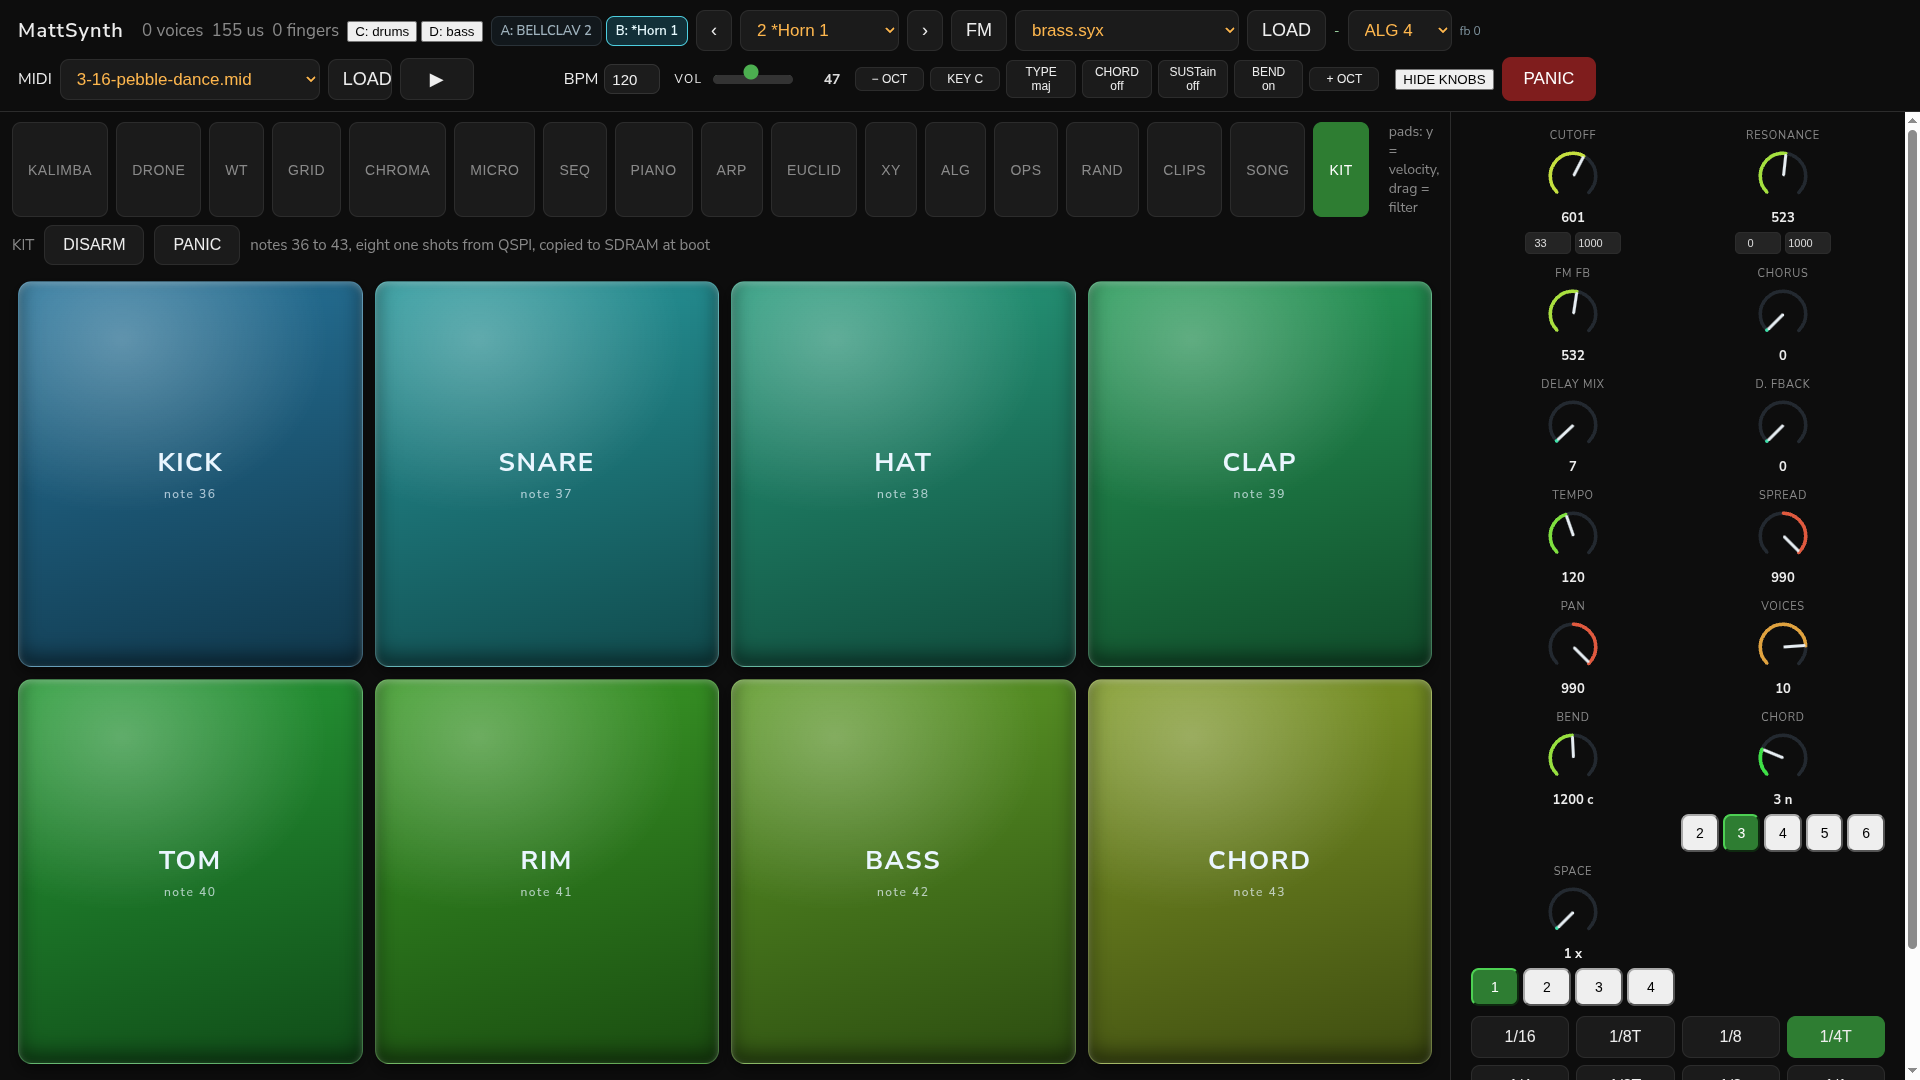
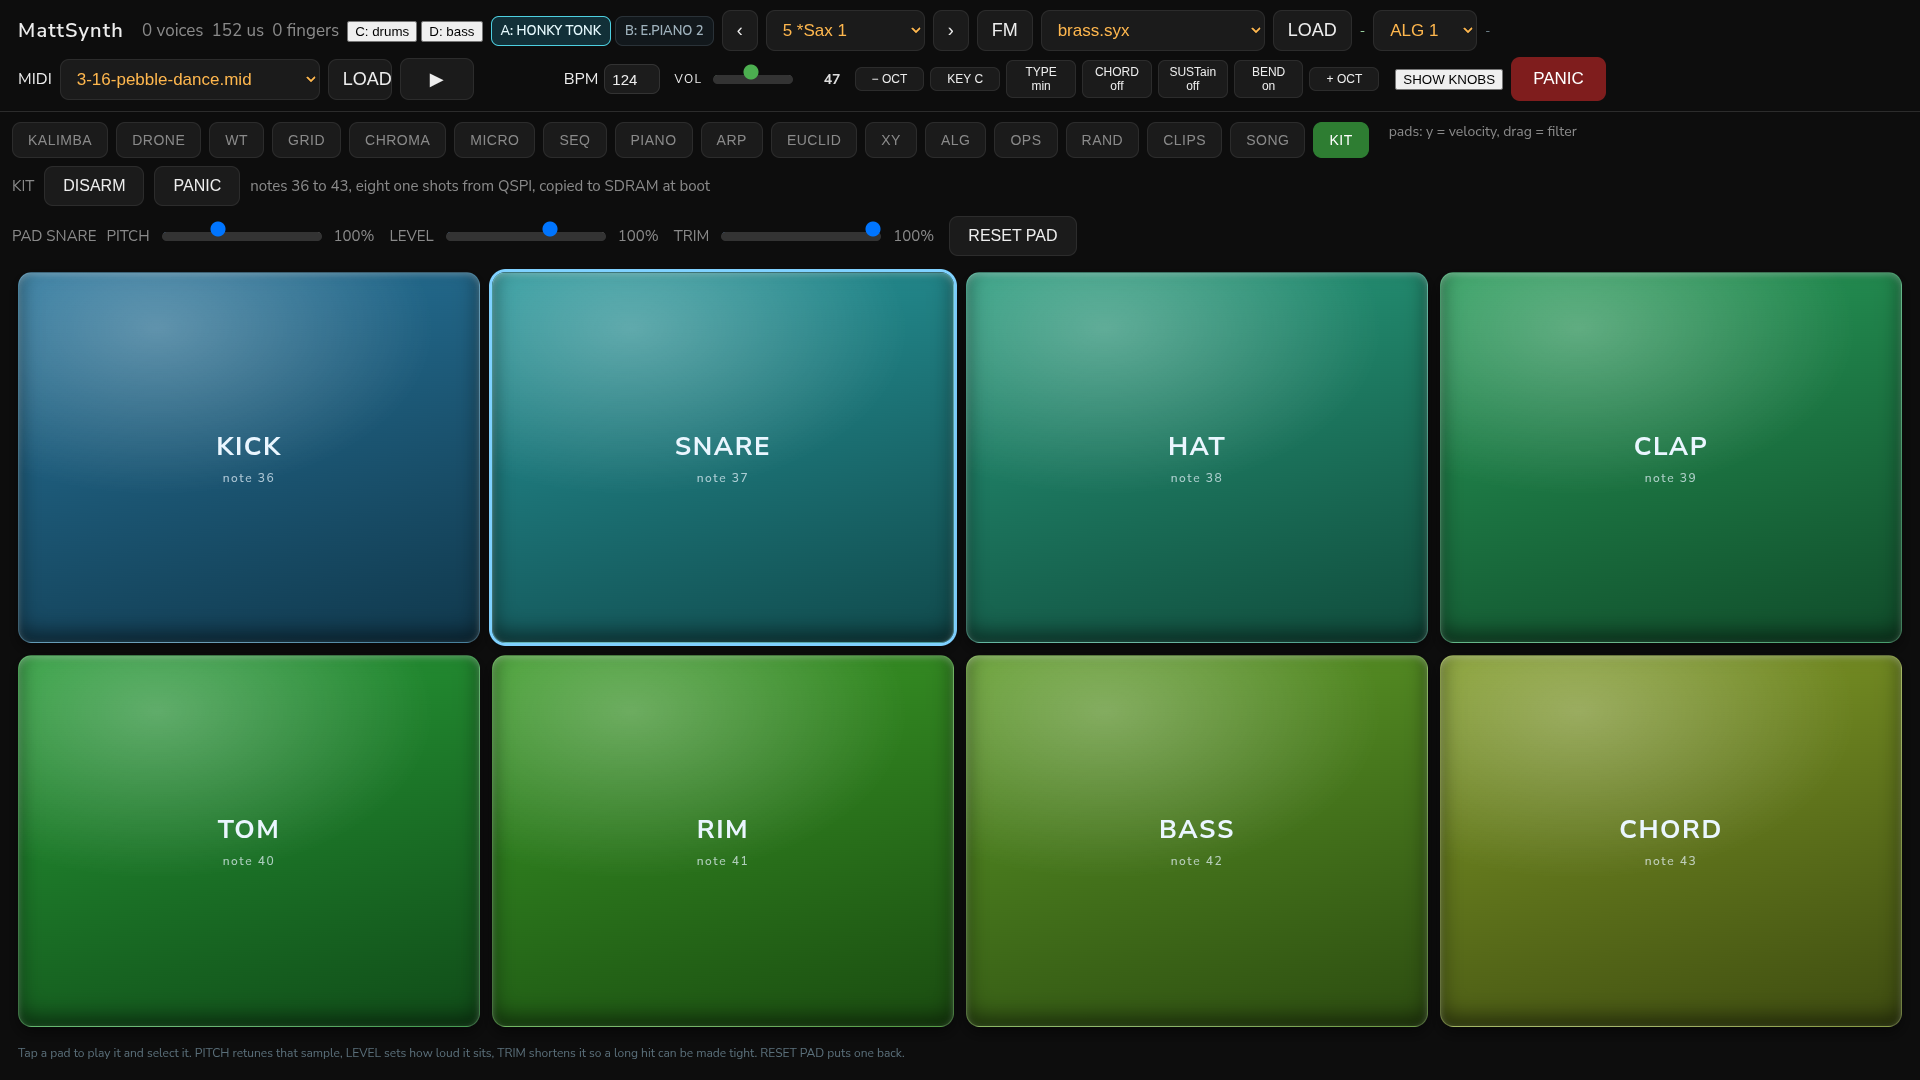
kit: shape each pad with pitch, level and trim
Y <pad> <rate> <level> <trim> in thousandths sets a pad on the Pod; the KIT tab selects a
pad by tapping it and gives it three sliders, saved with the panel. Pitch retunes the
sample, level sets how it sits in the mix and trim cuts the tail short.

diff --git a/panel/panel_ui.py b/panel/panel_ui.py
@@ -922,6 +922,12 @@ let bendRange=1200;   /* cents at full deflection, set by the BEND knob */
 let chordN=3;         /* how many notes a pad plays with CHORD on, set by the CHORD knob */
 let chordSpace=1;     /* multiplies the chord type gaps: maj 0-2-4 at 2 becomes 0-4-8 */
 /* microtonal player: EDO, layout and root */
+const kitPads = Array.from({length:8}, ()=>({ rate:1000, level:1000, trim:1000 }));
+let kitSel = 0;
+function kitSendPad(i){ const p = kitPads[i];
+  send("Y " + i + " " + p.rate + " " + p.level + " " + p.trim); }
+function kitSendAll(){ for(let i=0;i<8;i++) kitSendPad(i); }
+
 const micro = { edo:24, layout:"lum", root:0, size:"big" };
 let fxHidden = false;   /* the right column can collapse so a player gets the width */
 let part = 0;   /* which timbre the pads, roll and edit verbs act on */
@@ -4780,18 +4786,52 @@ function buildKit(){
     sub.style.cssText = "font:500 12px system-ui;opacity:.7;margin-top:6px";
     sub.textContent = "note " + (36 + i);
     b.appendChild(sub);
+    if(i === kitSel) b.style.outline = "3px solid #7fd1ff";
     const hit = (ev)=>{
       ev.preventDefault();
+      kitSel = i;
       b.style.transform = "scale(.97)";
       b.style.filter = "brightness(1.35)";
       send("N " + (36 + i) + " 118 0");
-      setTimeout(()=>{ b.style.transform = ""; b.style.filter = ""; }, 110);
+      setTimeout(()=>{ b.style.transform = ""; b.style.filter = ""; buildKit(); }, 110);
     };
     b.addEventListener("pointerdown", hit);
     grid.appendChild(b);
   });
+  const ed = document.createElement("div"); ed.className = "seqbar"; ed.style.flexWrap = "wrap";
+  const p0 = document.createElement("span"); p0.className = "lab";
+  p0.textContent = "PAD " + nm[kitSel];
+  ed.appendChild(p0);
+  const mk = (label, key, lo, hi)=>{
+    const t = document.createElement("span"); t.className = "lab"; t.textContent = label;
+    const r = document.createElement("input");
+    r.type = "range"; r.min = lo; r.max = hi; r.value = kitPads[kitSel][key];
+    r.style.width = "160px";
+    const v = document.createElement("span"); v.className = "lab";
+    v.style.minWidth = "46px"; v.textContent = Math.round(kitPads[kitSel][key] / 10) + "%";
+    r.oninput = ()=>{
+      kitPads[kitSel][key] = +r.value;
+      v.textContent = Math.round(r.value / 10) + "%";
+      kitSendPad(kitSel);
+    };
+    r.onchange = ()=> saveState();
+    ed.appendChild(t); ed.appendChild(r); ed.appendChild(v);
+  };
+  mk("PITCH", "rate", 500, 2000);
+  mk("LEVEL", "level", 0, 1500);
+  mk("TRIM", "trim", 100, 1000);
+  const rs = document.createElement("button"); rs.textContent = "RESET PAD";
+  rs.onclick = ()=>{ kitPads[kitSel] = { rate:1000, level:1000, trim:1000 }; kitSendPad(kitSel); buildKit(); saveState(); };
+  ed.appendChild(rs);
+  const h2 = document.createElement("div");
+  h2.style.cssText = "padding:2px 6px 8px;color:#5a6f7a;font:12px system-ui;line-height:1.45;";
+  h2.textContent = "Tap a pad to play it and select it. PITCH retunes that sample, LEVEL sets how loud it sits, " +
+                   "TRIM shortens it so a long hit can be made tight. RESET PAD puts one back.";
   wrap.appendChild(grid);
+  wrap.insertBefore(ed, grid);   /* the grid has to be in the page before this */
+  wrap.appendChild(h2);
   v.appendChild(wrap);
+  kitSendAll();
 }
 
 
@@ -5392,7 +5432,8 @@ function snapshot(){
   FX_IDS.forEach(i=>{ const el = document.getElementById("p"+i); if(el) fx[i] = +el.value; });
   const num = (id)=>{ const el = document.getElementById(id); return el ? +el.value : 0; };
   return {
-    v:1, view, keySel, typeSel, oct, chord, sust, bpm, divSel, part, patch: patchIdx, bend: bendMode, bendRange: bendRange, vol: +volEl.value, bank: document.getElementById("banksel").value, eng: engWT, wtv: WT2, wtp: wtUser, wtf: wtFile, wtpart: wtPart, slot: slotName.slice(), midi: midi.name, partSplit: midi.partSplit, chordN: chordN, chordSpace: chordSpace, fxHidden: fxHidden, seq: { pats: sq.pats, song: sq.song, cur: sq.cur, songOn: sq.songOn },
+    v:1, view, keySel, typeSel, oct, chord, sust, bpm, divSel, part, patch: patchIdx, bend: bendMode, bendRange: bendRange, vol: +volEl.value, bank: document.getElementById("banksel").value, eng: engWT, wtv: WT2, wtp: wtUser, wtf: wtFile, wtpart: wtPart, slot: slotName.slice(), midi: midi.name, partSplit: midi.partSplit, chordN: chordN, chordSpace: chordSpace, fxHidden: fxHidden, kitPads: kitPads,
+    seq: { pats: sq.pats, song: sq.song, cur: sq.cur, songOn: sq.songOn },
     micro: {edo: micro.edo, layout: micro.layout, root: micro.root, size: micro.size, splitOn: micro.splitOn, split: micro.split, dragOn: micro.dragOn, splitMode: micro.splitMode, bassOfs: micro.bassOfs, bassSpan: micro.bassSpan},
     gmode: transport.global,
     range: {lo0:num("lo0"), hi0:num("hi0"), lo1:num("lo1"), hi1:num("hi1")},
@@ -5424,6 +5465,9 @@ function applyState(s){
   if(typeof s.bank === "string" && s.bank) savedBank = s.bank;
   if(s.midi) setTimeout(()=>{ midiLoadFile(s.midi).catch(()=>{}); }, 900);
   /* the patterns and the chain come back with everything else */
+  if(Array.isArray(s.kitPads) && s.kitPads.length === 8){
+    for(let i = 0; i < 8; i++) kitPads[i] = Object.assign({ rate:1000, level:1000, trim:1000 }, s.kitPads[i] || {});
+  }
   if(s.seq && Array.isArray(s.seq.pats) && s.seq.pats.length){
     sq.pats = s.seq.pats;
     sq.song = Array.isArray(s.seq.song) ? s.seq.song : [];

diff --git a/firmware/daisy-pod/KitEngine.h b/firmware/daisy-pod/KitEngine.h
@@ -60,8 +60,10 @@ class KitEngine
         v_[pick].on   = true;
         v_[pick].slot = s;
         v_[pick].pos  = 0.0f;
-        v_[pick].amp  = (vel / 127.0f) * 0.9f;
+        v_[pick].amp  = (vel / 127.0f) * 0.9f * level_[s];
         v_[pick].rate = rate_[s];   /* was left uninitialised: garbage rate meant a click */
+        v_[pick].end  = (uint32_t)(len_[s] * trim_[s]);
+        if(v_[pick].end < 64) v_[pick].end = len_[s];
     }
 
     int Active() const
@@ -85,16 +87,17 @@ class KitEngine
             if(!v.on) continue;
             const int16_t *src = &g_kit_buf[off_[v.slot]];
             const uint32_t len = len_[v.slot];
+            const uint32_t end = v.end ? v.end : len;
             for(size_t i = 0; i < n; i++)
             {
                 const uint32_t p = (uint32_t)v.pos;
-                if(p + 1 >= len) { v.on = false; break; }
+                if(p + 1 >= len || p >= end) { v.on = false; break; }
                 const float fr = v.pos - (float)p;
                 const float a = src[p] * (1.0f - fr) + src[p + 1] * fr;
                 /* a two millisecond fade keeps the one shots from clicking on */
                 float g = 1.0f;
                 if(v.pos < 96.0f)            g = v.pos / 96.0f;
-                else if(len - v.pos < 96.0f) g = (len - v.pos) / 96.0f;
+                else if(end - v.pos < 96.0f) g = (end - v.pos) / 96.0f;
                 const float s = (a / 32768.0f) * v.amp * g;
                 l[i] += s;
                 r[i] += s;
@@ -103,16 +106,21 @@ class KitEngine
         }
     }
 
-    void SetRate(int note, float rate)
+    /* Y <pad> <rate> <level> <trim> in thousandths, so nothing float crosses the wire */
+    void SetPad(int pad, int rate_m, int level_m, int trim_m)
     {
-        const int s = note - 36;
-        if(s >= 0 && s < 8) rate_[s] = rate;
+        if(pad < 0 || pad > 7) return;
+        rate_[pad]  = (rate_m  > 50 && rate_m  < 4000) ? rate_m  / 1000.0f : 1.0f;
+        level_[pad] = (level_m >= 0 && level_m <= 2000) ? level_m / 1000.0f : 1.0f;
+        trim_[pad]  = (trim_m  >= 50 && trim_m  <= 1000) ? trim_m  / 1000.0f : 1.0f;
     }
 
   private:
-    struct V { bool on; int slot; float pos, amp, rate; };
+    struct V { bool on; int slot; uint32_t end; float pos, amp, rate; };
     static const uint32_t kKitCapacity = 240000;   /* frames, about five seconds */
     uint32_t off_[8], len_[8];
-    float    rate_[8] = {1,1,1,1,1,1,1,1};
+    float    rate_[8]  = {1,1,1,1,1,1,1,1};
+    float    level_[8] = {1,1,1,1,1,1,1,1};
+    float    trim_[8]  = {1,1,1,1,1,1,1,1};
     V        v_[kVoices];
 };

diff --git a/firmware/daisy-pod/PanelLink.cpp b/firmware/daisy-pod/PanelLink.cpp
@@ -760,6 +760,14 @@ static void handle(const char* body)
                     synth.Bend(clampi(a, 0, 1), b, (float)cents);
             }
             break;
+        case 'Y':
+        {
+            /* Y <pad> <rate> <level> <trim>, thousandths */
+            int pd = 0, rt = 1000, lv = 1000, tr = 1000;
+            if(sscanf(body + 1, "%d %d %d %d", &pd, &rt, &lv, &tr) == 4)
+                kit.SetPad(pd, rt, lv, tr);
+            break;
+        }
         case 'V': handle_voice(body); break;
         case 'Q': send_dump(); break;
         case 'W':
